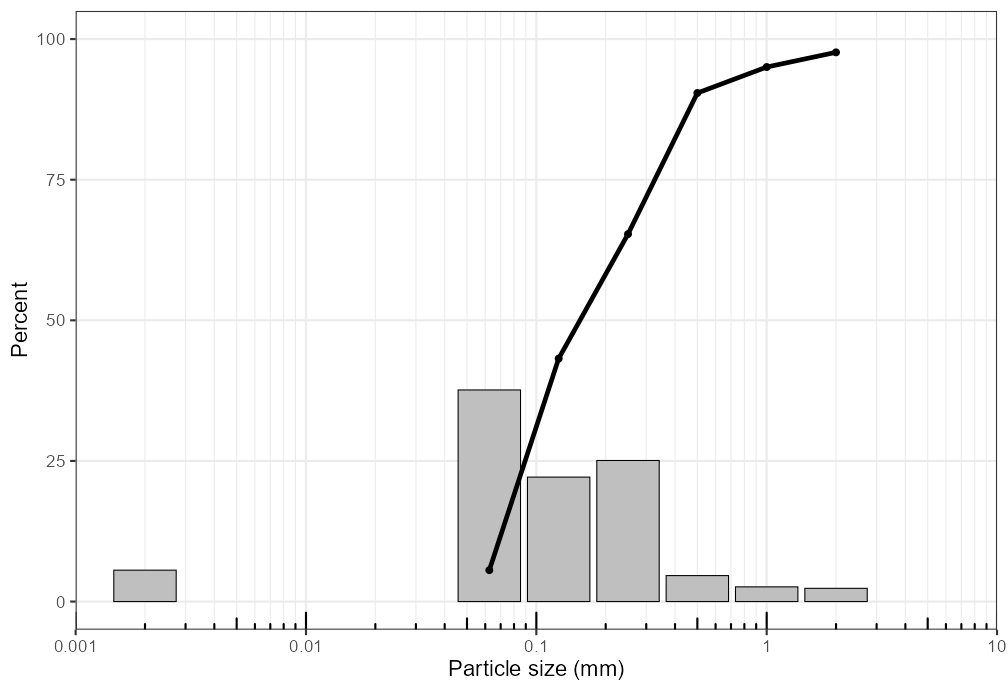
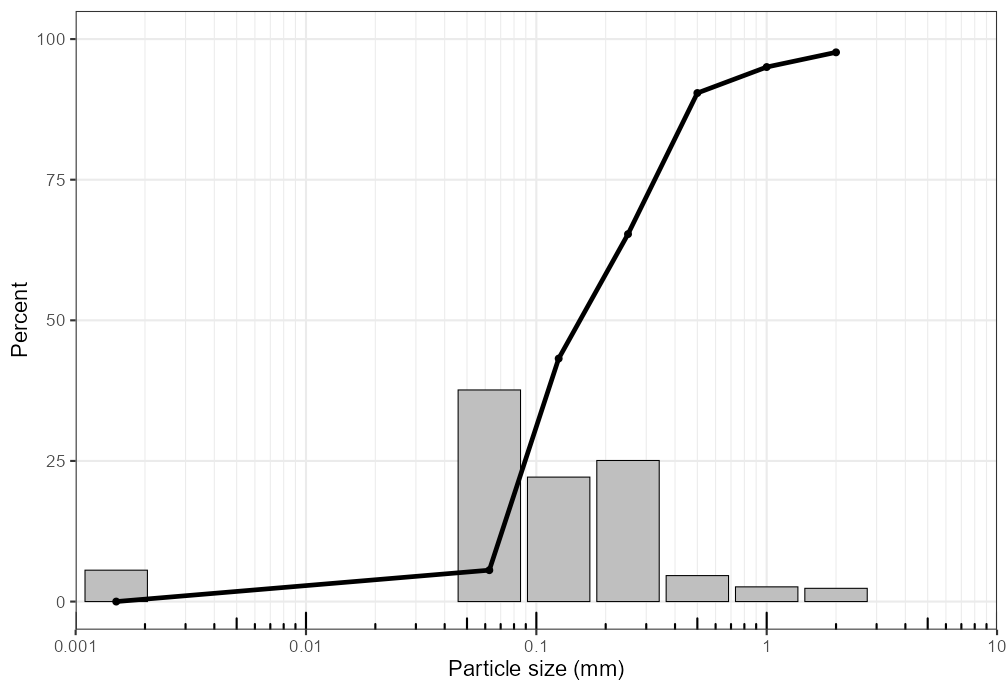
Align open-tail x values across grain-size plots

Changed region(s): [[0.0615, 0.8205, 0.2768, 0.8813], [0.2768, 0.8205, 0.4921, 0.8509]]

diff --git a/NEWS.md b/NEWS.md
@@ -2,7 +2,7 @@
 
 ## Development version
 
-- Display lower open-ended grain-size classes at 0.002 mm on distribution and
+- Display lower open-ended grain-size classes at 0.0015 mm on distribution and
   cumulative log plots without changing calculations.
 - Fixed log-scaled distribution plots so centered bars use the original
   particle-size class values after unit conversion.

diff --git a/README.md b/README.md
@@ -485,7 +485,7 @@ particle-size classes. Use `particle_unit = "um"` to show the same axis
 in micrometres. They plot one sample at a time; use `sample_id` or
 filter the input first, then loop over samples or combine plots
 externally with a plotting-arrangement package if needed. Lower
-open-ended classes are displayed at 0.002 mm, or 2 um, for plotting
+open-ended classes are displayed at 0.0015 mm, or 1.5 um, for plotting
 only; calculations are unchanged.
 
 ### GRADISTAT-Inspired Summary Plot